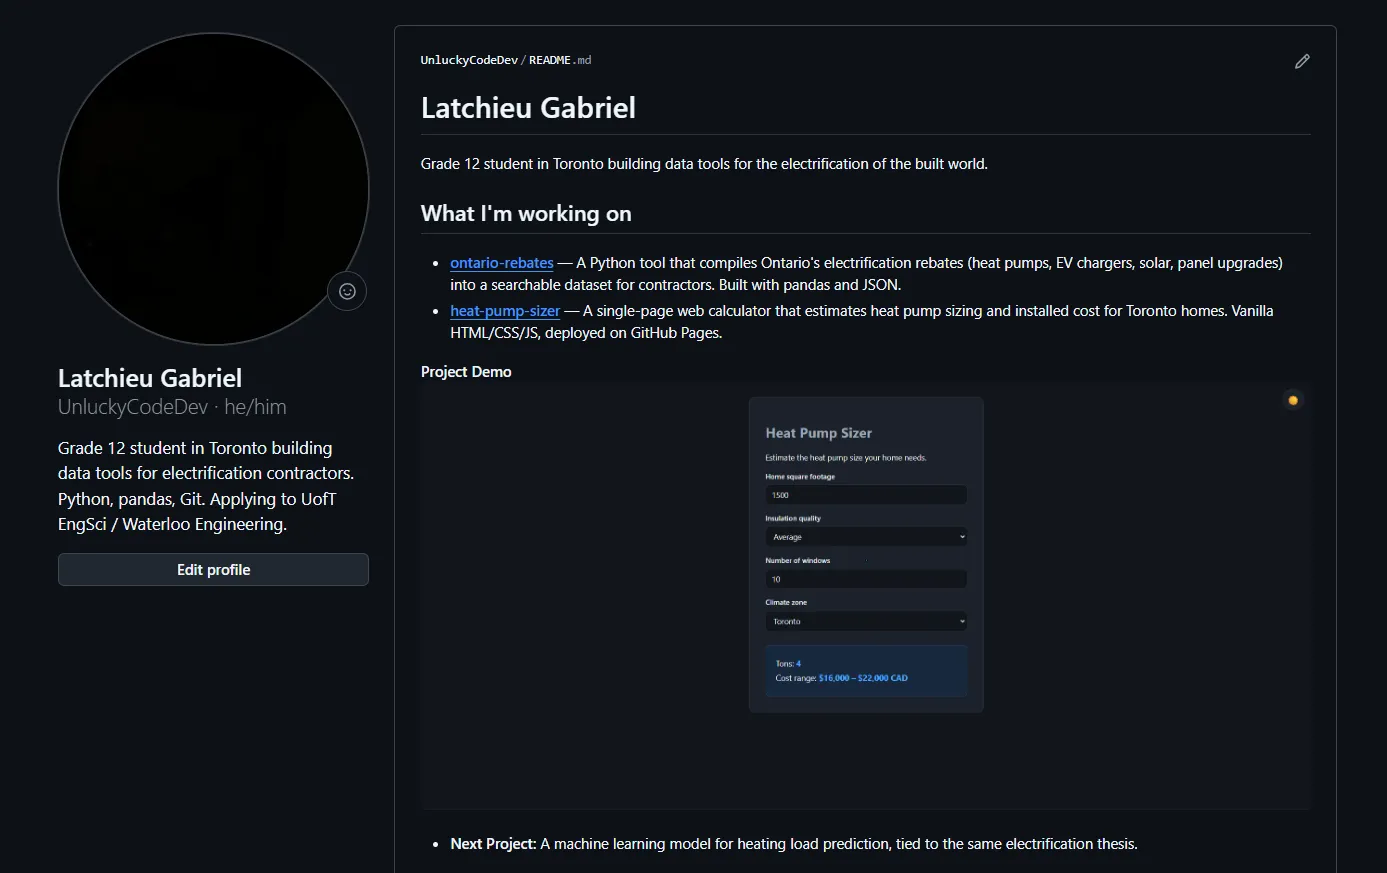
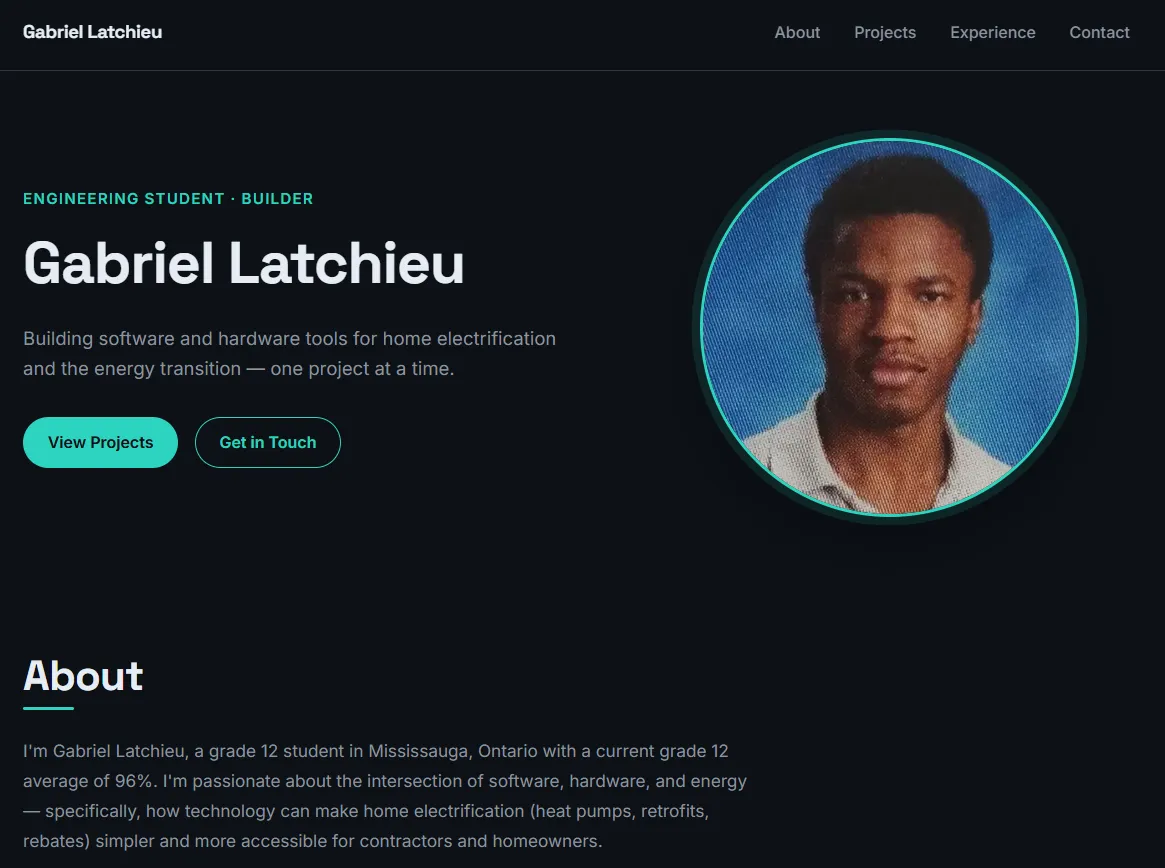
Add Roblox game and 3D modelling project cards

diff --git a/index.html b/index.html
@@ -178,6 +178,40 @@
           </div>
         </article>
 
+                <!-- Roblox Game -->
+        <article class="project-card">
+          <div class="project-media">
+            <img src="assets/img/game-image.webp" alt="Screenshot of the Roblox driving game" loading="lazy">
+          </div>
+          <div class="project-body">
+            <h3>Roblox Driving Game</h3>
+            <p class="project-tags">Luau · Lua · Game Design</p>
+            <p>
+              A custom driving game built on the Roblox engine. Developed to
+              explore 3D game mechanics, physics tuning, and scripting logic in Luau.
+            </p>
+            <div class="project-links">
+              <a href="https://www.roblox.com/games/128764830226794/Car-System" class="btn btn-sm btn-primary" target="_blank" rel="noopener">Play on Roblox</a>
+            </div>
+          </div>
+        </article>
+
+        <!-- 3D Modelling & Printing -->
+        <article class="project-card">
+          <div class="project-media">
+            <img src="assets/img/modelling-image.webp" alt="3D printed models designed by Gabriel" loading="lazy">
+          </div>
+          <div class="project-body">
+            <h3>3D Modelling &amp; Printing</h3>
+            <p class="project-tags">Blender · Substance Painter · Slicing</p>
+            <p>
+              A collection of smaller self-directed hardware and modelling projects.
+              Designed custom parts in Blender, textured them, and optimized
+              geometries for reliable FDM/SLA 3D printing.
+            </p>
+          </div>
+        </article>
+
       </div>
     </section>
 
